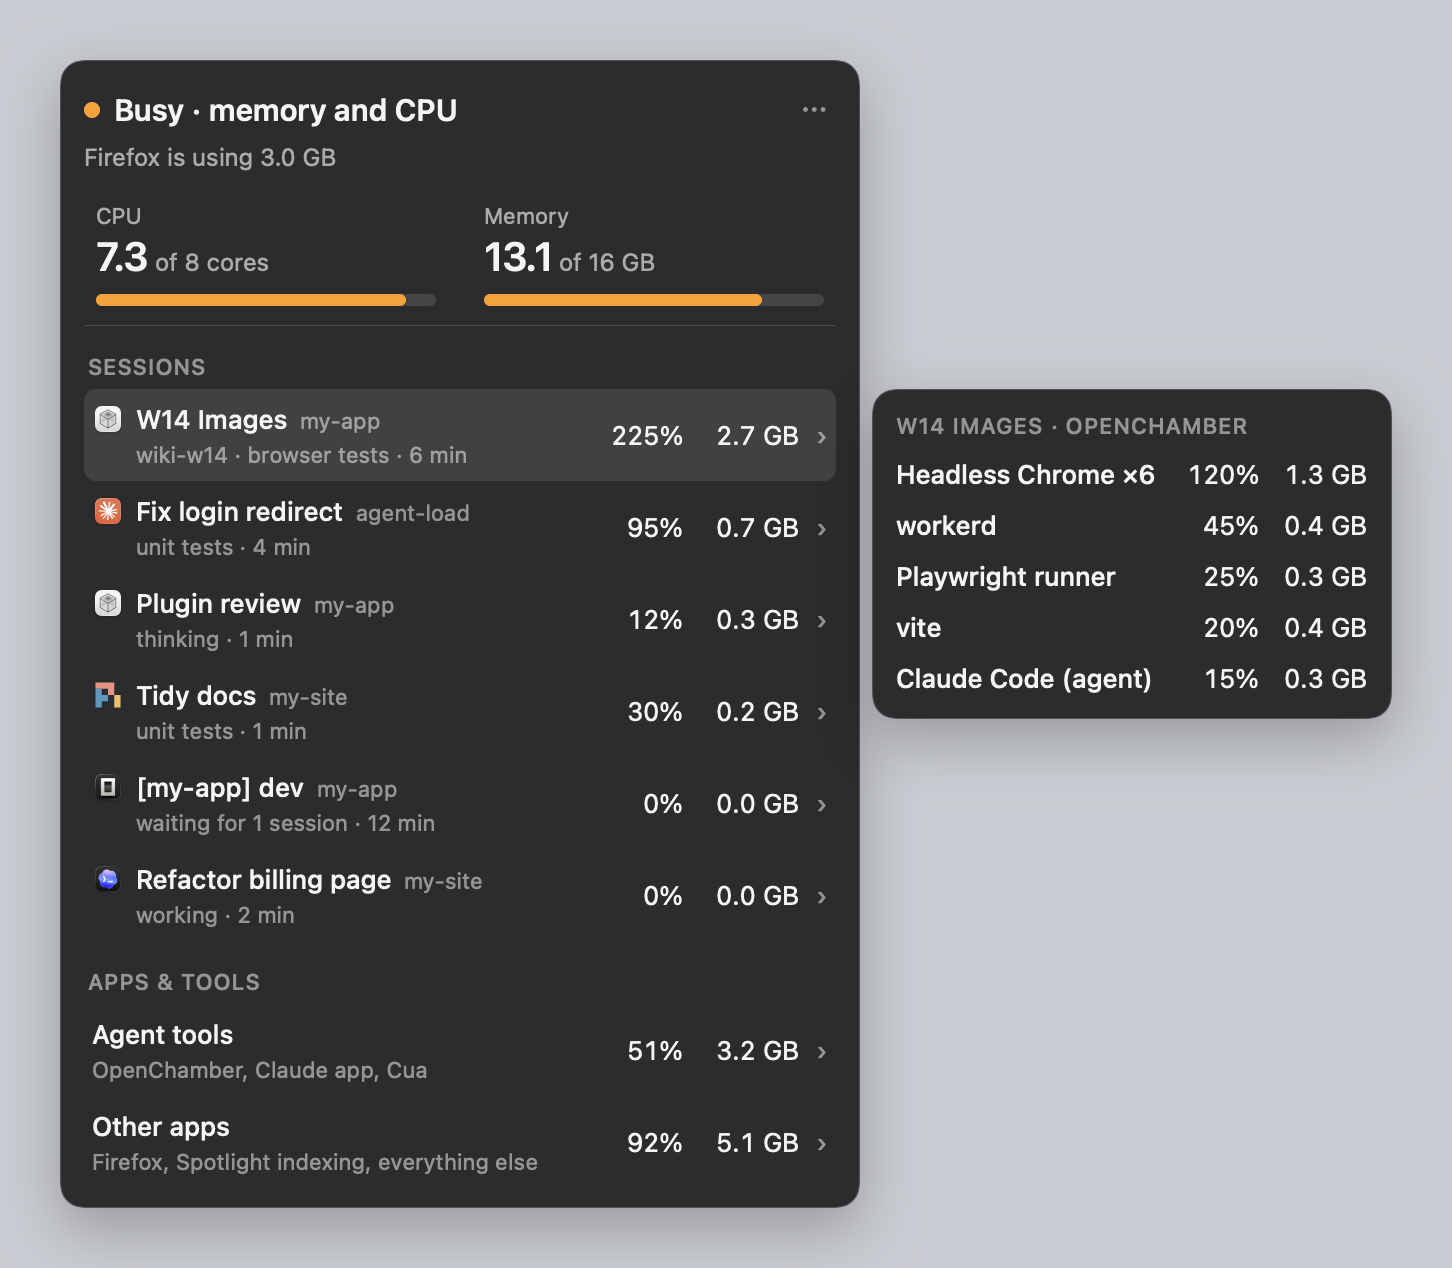
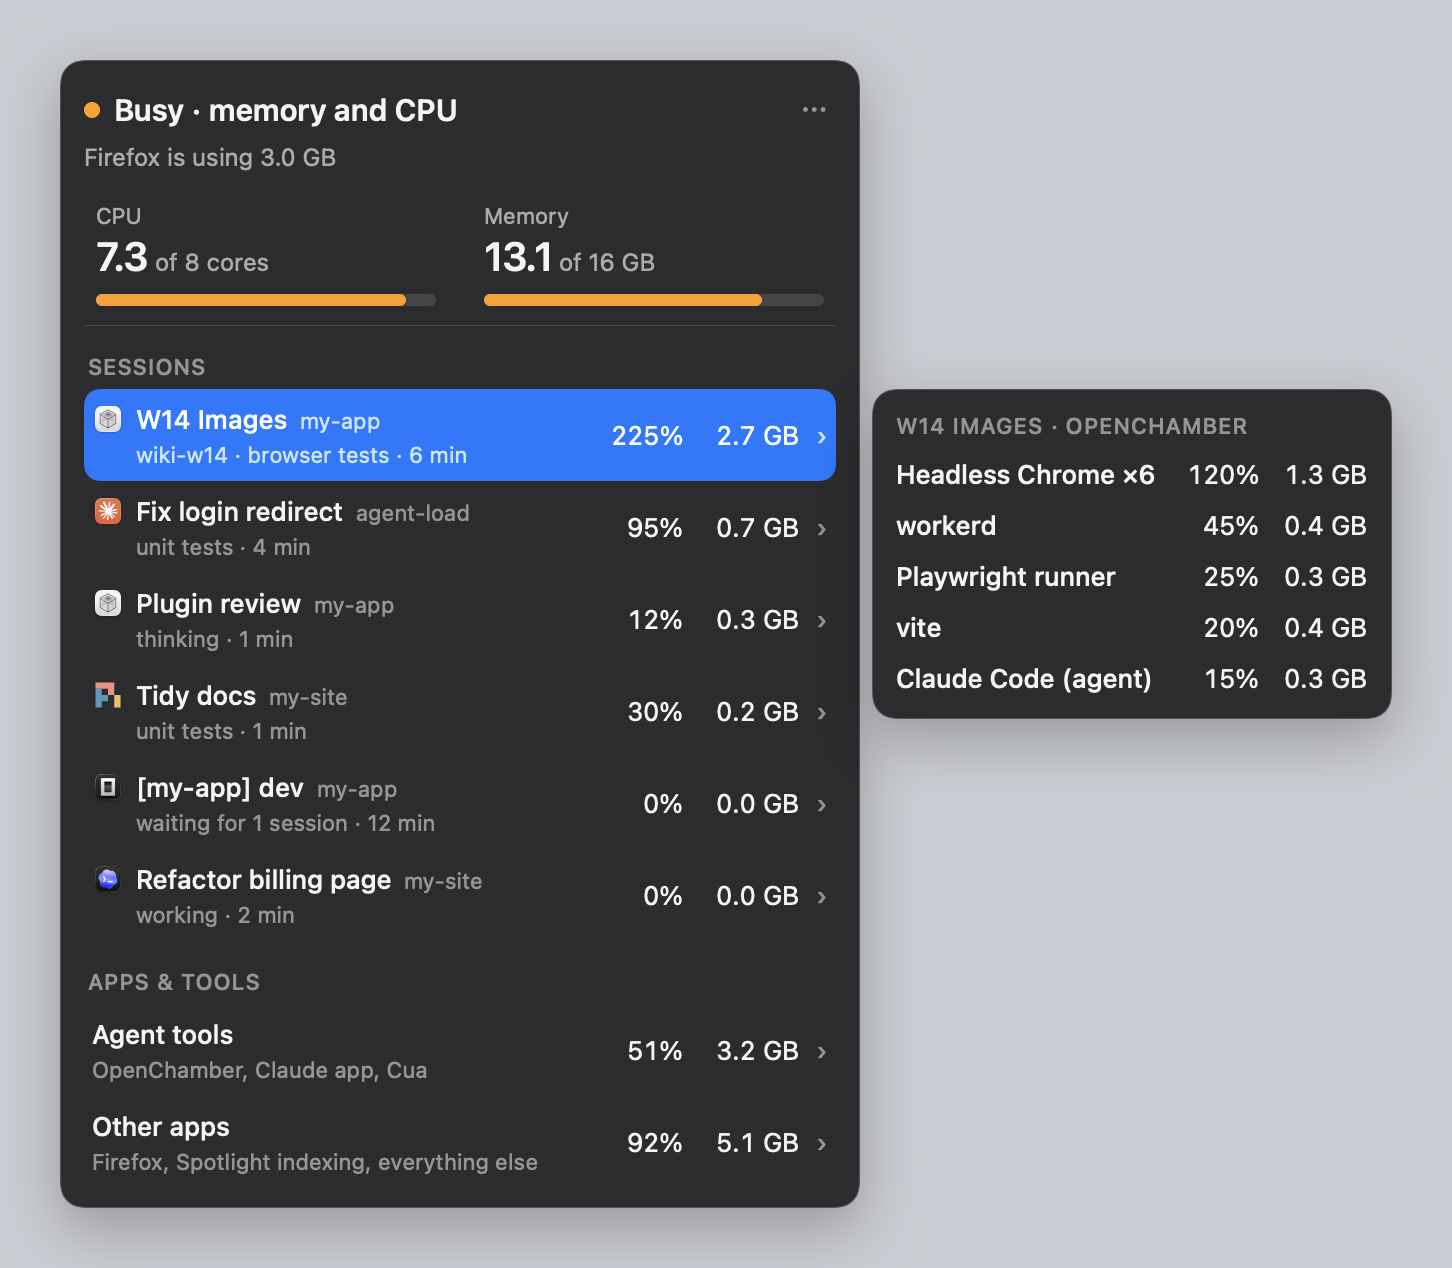
feat(app): rows highlight in the system accent colour on hover, like native menus

Changed region(s): [[0.031, 0.3076, 0.5888, 0.3998]]

diff --git a/docs/mockup.html b/docs/mockup.html
@@ -13,6 +13,6 @@
      on Liquid Glass like native menus (macOS 26; the older menu material before); this file approximates it with flat #f5f5f7.
      Agent tools lists one line per tool: OpenChamber, Claude app, Cua.
      Gauges "B · No cards, bigger numbers" (owner, 2026-11-14): no card, big number + small grey unit, 6px bar, hairline below. -->
-<html><head><meta charset="utf-8"><title>Agent Load mockup v7</title><style>body{background:#c9ccd3;padding:30px}.wrap{display:flex;gap:6px;align-items:flex-start;flex-wrap:wrap;font-family:-apple-system,BlinkMacSystemFont,sans-serif;font-size:13px;line-height:1.5;color:#1d1d1f}.menu{width:376px;background:#f5f5f7;border-radius:12px;box-shadow:0 10px 30px rgba(0,0,0,.25);padding:12px 12px 8px}.side{width:240px;margin-top:190px;background:#f5f5f7;border-radius:12px;box-shadow:0 10px 30px rgba(0,0,0,.25);padding:10px 10px 8px}.state{font-weight:600;font-size:15px;display:flex;gap:7px;align-items:center}.dot{width:8px;height:8px;border-radius:50%;background:#ff9f0a;display:inline-block}.verdict{font-size:12px;color:#6e6e73;margin:2px 0 10px}.gs{display:grid;grid-template-columns:1fr 1fr;gap:16px;padding:0 2px 6px;border-bottom:.5px solid rgba(0,0,0,.1);margin-bottom:4px}.gg{padding:2px 4px 4px}.k{font-size:11px;color:#6e6e73}.v{font-size:20px;font-weight:600;letter-spacing:-.01em;line-height:1.25}.v small{font-size:12px;font-weight:400;color:#6e6e73;margin-left:3px}.track{height:6px;margin-top:6px;background:rgba(0,0,0,.08);border-radius:3px}.track b{display:block;height:6px;border-radius:3px;background:#ff9f0a}.sec{font-size:11px;color:#86868b;font-weight:500;text-transform:uppercase;letter-spacing:.04em;margin:12px 2px 3px}.row{display:grid;grid-template-columns:minmax(0,1fr) 42px 52px 8px;gap:6px;padding:5px 4px;border-radius:6px;align-items:center}.row.on{background:#e8e8ed}.nm{font-weight:500;min-width:0}.l1{display:flex;align-items:baseline;gap:6px;min-width:0}.l1 .t{white-space:nowrap;overflow:hidden;text-overflow:ellipsis;min-width:0;flex:0 1 auto}.l1 .pj{font-weight:400;color:#86868b;font-size:11px;white-space:nowrap;flex:0 0 auto}.ic{width:16px;height:16px;flex:0 0 auto;align-self:center;border-radius:4px;background:#d2d2d7;color:#fff;font-size:9px;font-weight:600;line-height:16px;text-align:center}.row .nm>.sub{padding-left:22px}.row .nm.f>.sub{padding-left:0}.sub{display:block;font-weight:400;color:#86868b;font-size:11px;white-space:nowrap;overflow:hidden;text-overflow:ellipsis}.n{text-align:right;font-variant-numeric:tabular-nums}.c{color:#86868b;text-align:right}.ft{border-top:1px solid #d2d2d7;margin-top:6px;padding-top:6px;font-size:11px;color:#86868b;display:flex;justify-content:space-between}.p{display:grid;grid-template-columns:1fr 40px 48px;gap:6px;padding:3px 2px}.p>div:first-child{font-weight:500}.bar{width:340px;height:26px;border-radius:7px;background:#2f3137;display:flex;align-items:center;justify-content:flex-end;gap:12px;padding:0 10px;color:#f2f2f2;font-size:13px;margin-bottom:10px}.hl{background:rgba(255,255,255,.18);border-radius:5px;padding:2px 6px;display:flex;align-items:center;gap:5px}</style></head><body>
+<html><head><meta charset="utf-8"><title>Agent Load mockup v7</title><style>body{background:#c9ccd3;padding:30px}.wrap{display:flex;gap:6px;align-items:flex-start;flex-wrap:wrap;font-family:-apple-system,BlinkMacSystemFont,sans-serif;font-size:13px;line-height:1.5;color:#1d1d1f}.menu{width:376px;background:#f5f5f7;border-radius:12px;box-shadow:0 10px 30px rgba(0,0,0,.25);padding:12px 12px 8px}.side{width:240px;margin-top:190px;background:#f5f5f7;border-radius:12px;box-shadow:0 10px 30px rgba(0,0,0,.25);padding:10px 10px 8px}.state{font-weight:600;font-size:15px;display:flex;gap:7px;align-items:center}.dot{width:8px;height:8px;border-radius:50%;background:#ff9f0a;display:inline-block}.verdict{font-size:12px;color:#6e6e73;margin:2px 0 10px}.gs{display:grid;grid-template-columns:1fr 1fr;gap:16px;padding:0 2px 6px;border-bottom:.5px solid rgba(0,0,0,.1);margin-bottom:4px}.gg{padding:2px 4px 4px}.k{font-size:11px;color:#6e6e73}.v{font-size:20px;font-weight:600;letter-spacing:-.01em;line-height:1.25}.v small{font-size:12px;font-weight:400;color:#6e6e73;margin-left:3px}.track{height:6px;margin-top:6px;background:rgba(0,0,0,.08);border-radius:3px}.track b{display:block;height:6px;border-radius:3px;background:#ff9f0a}.sec{font-size:11px;color:#86868b;font-weight:500;text-transform:uppercase;letter-spacing:.04em;margin:12px 2px 3px}.row{display:grid;grid-template-columns:minmax(0,1fr) 42px 52px 8px;gap:6px;padding:5px 4px;border-radius:6px;align-items:center}.row.on{background:#0a84ff;color:#fff}.row.on .pj,.row.on .sub,.row.on .c{color:rgba(255,255,255,.8)}.nm{font-weight:500;min-width:0}.l1{display:flex;align-items:baseline;gap:6px;min-width:0}.l1 .t{white-space:nowrap;overflow:hidden;text-overflow:ellipsis;min-width:0;flex:0 1 auto}.l1 .pj{font-weight:400;color:#86868b;font-size:11px;white-space:nowrap;flex:0 0 auto}.ic{width:16px;height:16px;flex:0 0 auto;align-self:center;border-radius:4px;background:#d2d2d7;color:#fff;font-size:9px;font-weight:600;line-height:16px;text-align:center}.row .nm>.sub{padding-left:22px}.row .nm.f>.sub{padding-left:0}.sub{display:block;font-weight:400;color:#86868b;font-size:11px;white-space:nowrap;overflow:hidden;text-overflow:ellipsis}.n{text-align:right;font-variant-numeric:tabular-nums}.c{color:#86868b;text-align:right}.ft{border-top:1px solid #d2d2d7;margin-top:6px;padding-top:6px;font-size:11px;color:#86868b;display:flex;justify-content:space-between}.p{display:grid;grid-template-columns:1fr 40px 48px;gap:6px;padding:3px 2px}.p>div:first-child{font-weight:500}.bar{width:340px;height:26px;border-radius:7px;background:#2f3137;display:flex;align-items:center;justify-content:flex-end;gap:12px;padding:0 10px;color:#f2f2f2;font-size:13px;margin-bottom:10px}.hl{background:rgba(255,255,255,.18);border-radius:5px;padding:2px 6px;display:flex;align-items:center;gap:5px}</style></head><body>
 <div class='bar'><span>Wi-Fi</span><span class='hl'><span class='dot'></span>6</span><span>20:17</span></div>
 <div class='wrap'><div class='menu'><div class='state'><span class='dot'></span>Busy · memory is tight<span style='margin-left:auto;color:#86868b;letter-spacing:1px'>•••</span></div><div class='verdict'>Wait before starting another session</div><div class='gs'><div class='gg'><div class='k'>CPU</div><div class='v'>7.3<small>of 8 cores</small></div><div class='track'><b style='width:88%'></b></div></div><div class='gg'><div class='k'>Memory</div><div class='v'>13.1<small>of 16 GB</small></div><div class='track'><b style='width:82%'></b></div></div></div><div class='sec'>Sessions</div><div class='row'><div class='nm'><div class='l1'><span class='ic' title='OpenChamber'>C</span><span class='t'>W14 Images</span><span class='pj'>my-app</span></div><span class='sub'>wiki-w14 · browser tests · 6 min</span></div><div class='n'>210%</div><div class='n'>2.4 GB</div><div class='c'>›</div></div><div class='row on'><div class='nm'><div class='l1'><span class='ic' title='Claude Code'>A</span><span class='t'>Fix login redirect</span><span class='pj'>agent-load</span></div><span class='sub'>unit tests · 4 min</span></div><div class='n'>95%</div><div class='n'>0.7 GB</div><div class='c'>›</div></div><div class='row'><div class='nm'><div class='l1'><span class='ic' title='Pi'>P</span><span class='t'>Tidy docs</span><span class='pj'>my-site</span></div><span class='sub'>unit tests · 1 min</span></div><div class='n'>30%</div><div class='n'>0.2 GB</div><div class='c'>›</div></div><div class='row'><div class='nm'><div class='l1'><span class='ic' title='OpenChamber'>C</span><span class='t'>Plugin review</span><span class='pj'>my-app</span></div><span class='sub'>thinking · 1 min</span></div><div class='n'>0%</div><div class='n'>0.0 GB</div><div class='c'>›</div></div><div class='row'><div class='nm'><div class='l1'><span class='ic' title='OpenCode'>O</span><span class='t'>[my-app] dev</span><span class='pj'>my-app</span></div><span class='sub'>waiting for 1 session · 12 min</span></div><div class='n'>0%</div><div class='n'>0.0 GB</div><div class='c'>›</div></div><div class='row'><div class='nm'><div class='l1'><span class='ic' title='Codex'>X</span><span class='t'>Refactor billing page</span><span class='pj'>my-site</span></div><span class='sub'>working · 2 min</span></div><div class='n'>0%</div><div class='n'>0.0 GB</div><div class='c'>›</div></div><div class='sec'>Apps &amp; tools</div><div class='row'><div class='nm f'>Agent tools<span class='sub'>OpenChamber, Claude app, Cua</span></div><div class='n'>51%</div><div class='n'>3.2 GB</div><div class='c'>›</div></div><div class='row'><div class='nm f'>Other apps<span class='sub'>Firefox, Spotlight indexing, everything else</span></div><div class='n'>92%</div><div class='n'>5.1 GB</div><div class='c'>›</div></div></div><div class='side' style='margin-top:236px'><div class='sec' style='margin-top:0'>On hover · Fix login redirect · Claude Code</div><div class='p'><div>vitest</div><div class='n'>55%</div><div class='n'>0.3 GB</div></div><div class='p'><div>Claude Code itself</div><div class='n'>35%</div><div class='n'>0.3 GB</div></div><div class='p'><div>shell ×2</div><div class='n'>5%</div><div class='n'>0.0 GB</div></div></div></div></body></html>

diff --git a/Sources/AgentLoad/Views.swift b/Sources/AgentLoad/Views.swift
@@ -12,19 +12,26 @@ import AgentLoadCore
 /// the PNG renders must match the live window.
 struct Palette {
     let scheme: ColorScheme
+    /// Text on the accent-coloured hover highlight: white, like a selected native menu item.
+    var onAccent = false
+    /// Same palette for content drawn on the hover highlight.
+    func accented() -> Palette { var c = self; c.onAccent = true; return c }
     private func pick(_ light: UInt32, _ dark: UInt32) -> Color { Color(hex: scheme == .dark ? dark : light) }
     var background: Color { pick(0xF5F5F7, 0x2C2C2E) }   // .menu / .side
-    var text: Color { pick(0x1D1D1F, 0xF5F5F7) }         // body text
+    var text: Color { onAccent ? .white : pick(0x1D1D1F, 0xF5F5F7) }         // body text
     // Dark mode greys and the row highlight are translucent white (like the system's secondary
     // label colour), so they stay readable on the dark menu material over a bright desktop, where
     // the flat #8E8E93 got lost (2026-11-14). Over the flat render colour they look as before.
-    var grey1: Color { scheme == .dark ? Color.white.opacity(0.60) : Color(hex: 0x6E6E73) }   // .verdict, .k
-    var grey2: Color { scheme == .dark ? Color.white.opacity(0.50) : Color(hex: 0x86868B) }   // .sec, .pj, .sub, .ft
+    var grey1: Color { onAccent ? Color.white.opacity(0.85) : scheme == .dark ? Color.white.opacity(0.60) : Color(hex: 0x6E6E73) }   // .verdict, .k
+    var grey2: Color { onAccent ? Color.white.opacity(0.80) : scheme == .dark ? Color.white.opacity(0.50) : Color(hex: 0x86868B) }   // .sec, .pj, .sub, .ft
     /// Gauge bar track ("B · No cards", owner 2026-11-14): black 8% / white 12%, on the glass.
     var track: Color { scheme == .dark ? Color.white.opacity(0.12) : Color.black.opacity(0.08) }
     /// Hairline under the gauges: black 10% / white 15%.
     var separator: Color { scheme == .dark ? Color.white.opacity(0.15) : Color.black.opacity(0.10) }
-    var rowHover: Color { scheme == .dark ? Color.white.opacity(0.10) : Color(hex: 0xE8E8ED) }   // .row.on
+    var rowHover: Color { scheme == .dark ? Color.white.opacity(0.10) : Color(hex: 0xE8E8ED) }   // "…" button hover
+    /// Session / folded row hover: the system accent colour, like a highlighted native menu item
+    /// (owner, 2026-11-14). Follows System Settings → Appearance → Accent colour (blue by default).
+    var rowAccent: Color { Color(nsColor: .controlAccentColor) }
     var divider: Color { pick(0xD2D2D7, 0x48484A) }      // footer border
     /// Hairline ring around the dropdown and the hover panel, as native menus have on macOS 26
     /// (measured from a native NSMenu: slightly darker than the menu in light mode, lighter in dark).
@@ -282,7 +289,9 @@ extension View {
 struct SessionRowView: View {
     let row: SessionRow
     let hovered: Bool
-    let p: Palette
+    let base: Palette
+    init(row: SessionRow, hovered: Bool, p: Palette) { self.row = row; self.hovered = hovered; self.base = p }
+    private var p: Palette { hovered ? base.accented() : base }
     var body: some View {
         HStack(spacing: 6) {
             VStack(alignment: .leading, spacing: 0) {
@@ -308,7 +317,7 @@ struct SessionRowView: View {
             Numbers(cpu: row.cpuPercent, mem: row.memBytes, p: p)
         }
         .padding(.vertical, 5).padding(.horizontal, 4)   // mockup: padding 5px 4px
-        .background(RoundedRectangle(cornerRadius: 6, style: .continuous).fill(hovered ? p.rowHover : Color.clear))
+        .background(RoundedRectangle(cornerRadius: 8, style: .continuous).fill(hovered ? p.rowAccent : Color.clear))
     }
 }
 
@@ -316,7 +325,9 @@ struct SessionRowView: View {
 struct FoldedRowView: View {
     let group: FoldedGroup
     let hovered: Bool
-    let p: Palette
+    let base: Palette
+    init(group: FoldedGroup, hovered: Bool, p: Palette) { self.group = group; self.hovered = hovered; self.base = p }
+    private var p: Palette { hovered ? base.accented() : base }
     var body: some View {
         HStack(spacing: 6) {
             VStack(alignment: .leading, spacing: 0) {
@@ -327,7 +338,7 @@ struct FoldedRowView: View {
             Numbers(cpu: group.cpuPercent, mem: group.memBytes, p: p)
         }
         .padding(.vertical, 5).padding(.horizontal, 4)   // same as session rows
-        .background(RoundedRectangle(cornerRadius: 6, style: .continuous).fill(hovered ? p.rowHover : Color.clear))
+        .background(RoundedRectangle(cornerRadius: 8, style: .continuous).fill(hovered ? p.rowAccent : Color.clear))
     }
 }
 

diff --git a/docs/design.md b/docs/design.md
@@ -229,3 +229,10 @@ Green keeps "Room for another session".
   macOS still reports normal pressure. Headline: "Busy · memory is swapping"; the culprit line
   and memory sorting then apply as for any memory problem. Real pressure keeps its own wording.
 
+
+## Row hover (owner, 2026-11-14)
+
+Hovering a session row or the Agent tools / Other apps row highlights it in the system accent
+colour (blue by default, follows System Settings), 8 pt corners, with all its text white and the
+grey text white at 80%, like a highlighted item in a native menu. The "…" button keeps its grey
+hover.
